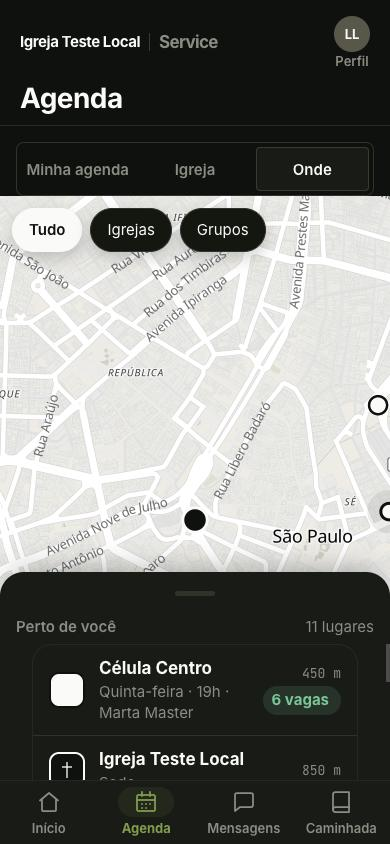
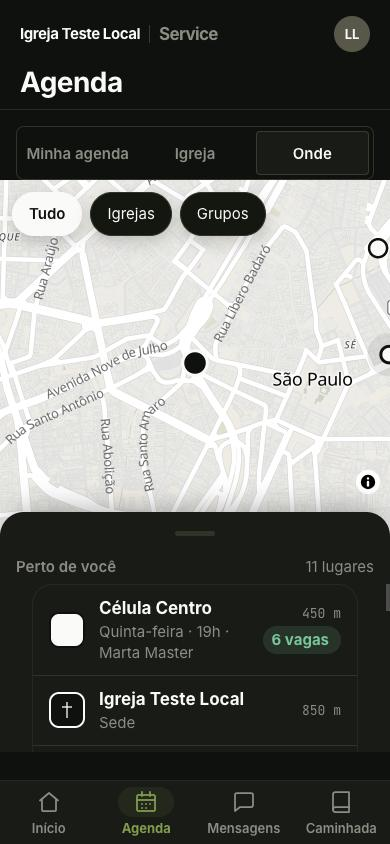
G17: correções da revisão
Altura pela área que rola, créditos do mapa acima da folha, filtros com a
folha aberta, enquadramento que conta a folha, alça acessível; pontos do
termo num lugar só, com o grupo pelo vocabulário.

diff --git a/app/service/membro/Onde.tsx b/app/service/membro/Onde.tsx
@@ -34,6 +34,7 @@ type Filtro = "tudo" | "igrejas" | "grupos";
 type StartChat = (selfMemberId: string, targetMemberId: string, firstMessage: string) => Promise<string | null>;
 
 const ehIgreja = (l: Local) => l.tipo !== "grupo";
+const vagasDe = (l: Local) => (l.lugares ? Math.max(0, l.lugares - (l.ocupados ?? 0)) : null);
 
 export function enderecoDoLocal(l: Local): string {
   return joinDot([l.rua, l.numero].filter(Boolean).join(", "), l.complemento, l.bairro, l.cidade);
@@ -49,20 +50,25 @@ export function TabOnde({ member, organizationId, onStartChat }: { member: M | n
   const enquadrou = useRef(false);
   const [mapaPronto, setMapaPronto] = useState(false);
   const [folhaAberta, setFolhaAberta] = useState(false);
-  /* o mapa vai do topo do Onde até as abas: a altura sai da posição na tela */
+  /* o mapa vai do topo do Onde até o fim da área que rola (acima das abas):
+     refaz quando a área muda de tamanho (texto maior, cabeçalho, rotação) */
   const caixa = useRef<HTMLDivElement | null>(null);
   const [altura, setAltura] = useState<number | null>(null);
   useLayoutEffect(() => {
+    const el = caixa.current;
+    const rola = el?.closest<HTMLElement>(".m-scroll") ?? null;
+    if (!el) return;
     const medir = () => {
-      const el = caixa.current;
-      if (!el) return;
-      const abas = document.querySelector<HTMLElement>(".m6-tabs, .m6-nav, nav[aria-label='Abas']");
-      const fim = abas ? abas.getBoundingClientRect().top : window.innerHeight;
-      setAltura(Math.max(380, Math.round(fim - el.getBoundingClientRect().top)));
+      if (!rola) { setAltura(Math.round(window.innerHeight - el.getBoundingClientRect().top)); return; }
+      const fundo = parseFloat(getComputedStyle(rola).paddingBottom) || 0;
+      const topo = el.getBoundingClientRect().top - rola.getBoundingClientRect().top + rola.scrollTop;
+      setAltura(Math.max(240, Math.round(rola.clientHeight - fundo - topo)));
     };
     medir();
-    window.addEventListener("resize", medir);
-    return () => window.removeEventListener("resize", medir);
+    const obs = new ResizeObserver(medir);
+    if (rola) obs.observe(rola);
+    obs.observe(document.documentElement);
+    return () => obs.disconnect();
   }, []);
   const arraste = useRef<number | null>(null);
   const arrastou = useRef(false);
@@ -105,18 +111,19 @@ export function TabOnde({ member, organizationId, onStartChat }: { member: M | n
     });
     if (!enquadrou.current && locais !== null) {
       if (sede) {
-        map.jumpTo({ center: [sede.longitude, sede.latitude], zoom: 14 });
+        map.easeTo({ center: [sede.longitude, sede.latitude], zoom: 14, offset: [0, -Math.round((map.getContainer().clientHeight || 600) * 0.18)], duration: 0 });
         enquadrou.current = true;
       } else {
         const caixa = caixaDosPontos([...visiveis.filter(temPonto), ...(eu ? [eu] : [])]);
-        if (caixa) { map.fitBounds(caixa, { padding: 48, maxZoom: 15, duration: 0 }); enquadrou.current = true; }
+        /* a folha cobre a parte de baixo e os filtros a de cima: os pontos ficam no que sobra */
+        const folha = Math.round((map.getContainer().clientHeight || 600) * 0.42);
+        if (caixa) { map.fitBounds(caixa, { padding: { top: 72, bottom: folha + 16, left: 32, right: 32 }, maxZoom: 15, duration: 0 }); enquadrou.current = true; }
       }
     }
   }, [visiveis, eu, mapaPronto, sede, locais]);
 
   const semPonto = (locais ?? []).filter((l) => !temPonto(l)).length;
 
-  const vagasDe = (l: Local) => (l.lugares ? Math.max(0, l.lugares - (l.ocupados ?? 0)) : null);
   return (
     <div className="onde" ref={caixa} style={altura ? { height: altura } : undefined}>
       <MapaBase
@@ -149,7 +156,7 @@ export function TabOnde({ member, organizationId, onStartChat }: { member: M | n
           return () => { mapa.current = null; enquadrou.current = false; setMapaPronto(false); };
         }}
       />
-      <div className="onde-filtros" role="group" aria-label="Mostrar">
+      <div className="onde-filtros" role="group" aria-label="Mostrar" inert={folhaAberta}>
         {([["tudo", "Tudo"], ["igrejas", "Igrejas"], ["grupos", ct("{Grupos}")]] as const).map(([v, l]) => (
           <Opcao key={v} aria-pressed={filtro === v} marcada={filtro === v} estilo="onde-chip" onClick={() => setFiltro(v)}>{l}</Opcao>
         ))}
@@ -157,16 +164,17 @@ export function TabOnde({ member, organizationId, onStartChat }: { member: M | n
 
       <section className={`onde-folha${folhaAberta ? " aberta" : ""}`} aria-label={eu ? "Perto de você" : "Lugares da igreja"}>
         <Acao className="onde-puxar" aria-expanded={folhaAberta} aria-label={folhaAberta ? "Mostrar o mapa" : "Ver a lista toda"}
-          onPointerDown={(e) => { arraste.current = e.clientY; arrastou.current = false; }}
+          aria-controls="onde-lista"
+          onPointerDown={(e) => { arraste.current = e.clientY; arrastou.current = false; e.currentTarget.setPointerCapture(e.pointerId); }}
           onPointerUp={(e) => { const y0 = arraste.current; arraste.current = null; if (y0 !== null && Math.abs(e.clientY - y0) > 24) { arrastou.current = true; setFolhaAberta(e.clientY < y0); } }}
-          onClick={() => { if (arrastou.current) { arrastou.current = false; return; } setFolhaAberta((v) => !v); }}>
+          onClick={(e) => { const foiArraste = e.detail > 0 && arrastou.current; arrastou.current = false; if (!foiArraste) setFolhaAberta((v) => !v); }}>
           <span className="onde-alca" aria-hidden="true" />
         </Acao>
         <div className="onde-folha-cab">
           <h2 className="m6-lbl">{eu ? "Perto de você" : "Lugares da igreja"}</h2>
           {locais && <span className="m6-meta">{plural(ordenados.length, "lugar", "lugares")}</span>}
         </div>
-        <div className="onde-folha-lista">
+        <div className="onde-folha-lista" id="onde-lista">
           {!eu && <p className="m6-meta">Coloque seu CEP no Perfil para ver o que fica mais perto.</p>}
           {erro && <p className="m6-meta" role="alert">Não foi possível carregar agora. Tente de novo.</p>}
           {locais === null && !erro && <Carregando forma="lista" />}
@@ -200,7 +208,7 @@ function SheetLocal({ local: l, member, eu, onStartChat }: { local: Local; membe
   const ui = useContext(MemberUiContext);
   const { comTermos: ct } = useTermos();
   const [enviando, setEnviando] = useState(false);
-  const vagas = l.lugares ? Math.max(0, l.lugares - (l.ocupados ?? 0)) : null;
+  const vagas = vagasDe(l);
   const km = eu && temPonto(l) ? distanciaKm(eu, l) : null;
   const podeFalar = !!(onStartChat && member && l.lider_member_id && l.lider_member_id !== member.id);
   const primeiroNome = (l.lider_nome ?? "").split(" ")[0];

diff --git a/app/service/modules/mapa/mapa.css b/app/service/modules/mapa/mapa.css
@@ -46,7 +46,9 @@
 .ts-seg.tres { margin-top: 10px; }
 a.m6-btn { text-decoration: none; }
 /* Onde (G17, P14): mapa cheio, filtros por cima e a folha "Perto de você" */
-.onde { position: relative; height: calc(100dvh - 260px); min-height: 380px; overflow: hidden; }
+.onde { position: relative; height: calc(100dvh - 260px); overflow: hidden; }
+/* créditos do mapa (OSM) acima da folha */
+.onde .maplibregl-ctrl-bottom-right { bottom: calc(42% + 8px); }
 .onde-filtros { position: absolute; z-index: 2; top: 12px; left: 12px; right: 12px; display: flex; gap: 8px; flex-wrap: wrap; pointer-events: none; }
 .onde-filtros > * { pointer-events: auto; box-shadow: 0 6px 16px rgba(0, 0, 0, .18); }
 .onde-folha {
@@ -54,12 +56,12 @@ a.m6-btn { text-decoration: none; }
   border-radius: 24px 24px 0 0; background: var(--graphite); box-shadow: 0 -12px 30px -12px rgba(0, 0, 0, .35);
   transition: max-height .45s var(--ease-drawer);
 }
-.onde-folha.aberta { max-height: calc(100% - 12px); }
+.onde-folha.aberta { max-height: calc(100% - 68px); }
 .onde-puxar { align-self: center; width: 100%; min-height: 44px; border: 0; background: transparent; display: flex; align-items: center; justify-content: center; cursor: grab; touch-action: none; }
 .onde-alca { width: 40px; height: 5px; border-radius: 3px; background: var(--border-2); }
 .onde-folha-cab { display: flex; align-items: baseline; justify-content: space-between; gap: 8px; padding: 0 16px 6px; }
 .onde-folha-cab h2 { margin: 0; }
-.onde-folha-lista { flex: 1; min-height: 0; overflow-y: auto; padding: 0 16px calc(12px + var(--safe-bottom, 0px)); overscroll-behavior: contain; }
+.onde-folha-lista { flex: 1; min-height: 0; overflow-y: auto; padding: 0 16px 12px; overscroll-behavior: contain; }
 .onde-lado { display: flex; flex-direction: column; align-items: flex-end; gap: 4px; flex-shrink: 0; }
 @media (prefers-reduced-motion: reduce) { .onde-folha { transition: none; } }
 .onde-chip { min-height: 44px; padding: 0 16px; border-radius: 22px; border: 0.5px solid var(--border-2); background: var(--graphite-2); color: var(--white); font: inherit; font-size: var(--fs-app-15); }

diff --git a/app/service/membro/AceiteMapa.tsx b/app/service/membro/AceiteMapa.tsx
@@ -3,7 +3,7 @@
 import { useContext, useState } from "react";
 import { useRouter } from "next/navigation";
 import { createServiceBrowserClient } from "../lib/supabase-browser";
-import { TERMO_MAPA_VERSAO, termoCompleto } from "../lib/termo-mapa";
+import { TERMO_MAPA_VERSAO, pontosDoTermo, termoCompleto } from "../lib/termo-mapa";
 import { Icon } from "../lib/icons";
 import { MemberUiContext } from "./comum";
 
@@ -24,13 +24,8 @@ export async function gravarAceiteMapa(memberId: string, aceita: boolean, origem
 
 export function SheetAceiteMapa({ memberId, churchName, usaGrupos = false, onDecidido }: { memberId: string; churchName?: string; usaGrupos?: boolean; onDecidido: (aceitou: boolean) => void }) {
   const traduzirUi = useTexto();
-  /* G17 (prancha P16): os 3 pontos em ícone; o grupo vem do vocabulário da
-     igreja ("seu {grupo}") e some se a igreja não usa grupos */
-  const pontos: { icone: "cadeado" | "mapapin" | "perfil"; texto: string; forte?: string }[] = [
-    { icone: "cadeado", texto: traduzirUi("Seus dados ficam só com a {igreja}.", { igreja: churchName?.trim() || traduzirUi("igreja") }) },
-    { icone: "mapapin", texto: usaGrupos ? traduzirUi("A liderança pode ver seu nome, a região do seu CEP, seu {grupo} e onde você serve.") : traduzirUi("A liderança pode ver seu nome, a região do seu CEP e onde você serve."), forte: traduzirUi("Nunca o endereço.") },
-    { icone: "perfil", texto: traduzirUi("Você muda isso quando quiser no Perfil.") },
-  ];
+  /* G17 (prancha P16): os 3 pontos em ícone, o grupo pelo vocabulário */
+  const pontos = pontosDoTermo(churchName, traduzirUi, usaGrupos);
 
   const ui = useContext(MemberUiContext);
   const router = useRouter();

diff --git a/app/service/lib/termo-mapa.ts b/app/service/lib/termo-mapa.ts
@@ -12,12 +12,20 @@ export function avisoCep(t: Text = sourceText): string {
 }
 export const AVISO_CEP = avisoCep();
 
-/* os 3 pontos que ficam visíveis na tela de aceite (não escondidos no termo) */
-export function pontosDoTermo(igreja?: string | null, t: Text = sourceText): string[] {
+/* os 3 pontos que ficam visíveis na tela de aceite (não escondidos no termo).
+   O grupo vem do vocabulário da igreja e some se ela não usa grupos (lei 7). */
+export type PontoDoTermo = { icone: "cadeado" | "mapapin" | "perfil"; texto: string; forte?: string };
+export function pontosDoTermo(igreja?: string | null, t: Text = sourceText, usaGrupos = false): PontoDoTermo[] {
   return [
-    t("Seus dados ficam só com a {igreja}.", { igreja: igreja?.trim() || t("igreja") }),
-    t("A liderança pode ver seu nome, a região do seu CEP, sua célula e onde você serve. Nunca o endereço."),
-    t("Você muda isso quando quiser no Perfil."),
+    { icone: "cadeado", texto: t("Seus dados ficam só com a {igreja}.", { igreja: igreja?.trim() || t("igreja") }) },
+    {
+      icone: "mapapin",
+      texto: usaGrupos
+        ? t("A liderança pode ver seu nome, a região do seu CEP, o {grupo} de que você participa e onde você serve.")
+        : t("A liderança pode ver seu nome, a região do seu CEP e onde você serve."),
+      forte: t("Nunca o endereço."),
+    },
+    { icone: "perfil", texto: t("Você muda isso quando quiser no Perfil.") },
   ];
 }
 

diff --git a/app/service/convite/ConviteForm.tsx b/app/service/convite/ConviteForm.tsx
@@ -117,7 +117,7 @@ export default function ConviteForm({ t, churchName }: { t: string; churchName?:
       )}
       <div className="login-field">
         <ul className="login-termo">
-          {pontosDoTermo(churchName, traduzirUi).map((p) => <li key={p}>{p}</li>)}
+          {pontosDoTermo(churchName, traduzirUi).map((p) => <li key={p.icone}>{p.texto}{p.forte ? ` ${p.forte}` : ""}</li>)}
         </ul>
         <details className="login-termo-completo">
           <summary>{traduzirUi("Ler o termo completo")}</summary>

diff --git a/docs/service-v7/historias/G17-membro-onde-aceite.md b/docs/service-v7/historias/G17-membro-onde-aceite.md
@@ -21,6 +21,8 @@ Referência: mapa/PLANO.md §10 e canvas "Mapa da igreja · evolução" (claude.
 - `app/service/modules/mapa/mapa.css`
 - `app/service/modules/mapa/manifest.ts`
 - `app/service/ui/biblioteca.css`
+- `app/service/lib/termo-mapa.ts`
+- `app/service/convite/ConviteForm.tsx`
 - `app/service/lib/internacional/mensagens/*.json`
 - `docs/service-v7/historias/G17-membro-onde-aceite.md`
 
@@ -35,4 +37,4 @@ Referência: mapa/PLANO.md §10 e canvas "Mapa da igreja · evolução" (claude.
 
 ## Notas
 Criada em 04/11/2026 a partir da evolução da jornada do mapa (decisões do usuário em PLANO §10). Nada de aviso ou sugestão automática de expansão.
-06/11/2026 (claude): Onde com o mapa até as abas, filtros por cima e a folha "Perto de você" (toque ou arraste na alça sobe para a lista toda; cada lugar mostra distância e vagas; tocar abre o detalhe com Mandar mensagem, Quero participar e Como chegar). Aceite com os 3 pontos em ícone; o grupo vem do vocabulário ("seu {grupo}") e some se o módulo de grupos está desligado; frases novas no catálogo pt, en e es. Densidade: Onde 14/39 (antes 14/29), justificada; aceite 3/57, dentro. Fotos G17-0 a G17-4.
+06/11/2026 (claude): Onde com o mapa até as abas, filtros por cima e a folha "Perto de você" (toque ou arraste na alça sobe para a lista toda; cada lugar mostra distância e vagas; tocar abre o detalhe com Mandar mensagem, Quero participar e Como chegar). Aceite com os 3 pontos em ícone; o grupo vem do vocabulário ("seu {grupo}") e some se o módulo de grupos está desligado; frases novas no catálogo pt, en e es. Densidade: Onde 14/39 (antes 14/29), justificada; aceite 3/57, dentro. Fotos G17-0 a G17-4. Revisão: altura medida pela área que rola (sem rolar atrás do mapa), créditos do mapa acima da folha, filtros visíveis e inertes com a folha aberta, enquadramento descontando a folha, alça com captura do ponteiro e aria-controls; os 3 pontos moram em pontosDoTermo (aceite e convite) com "o {grupo} de que você participa", sem "sua célula" fixo. O termo completo ainda fala em célula: mudar exige versão nova do termo.
